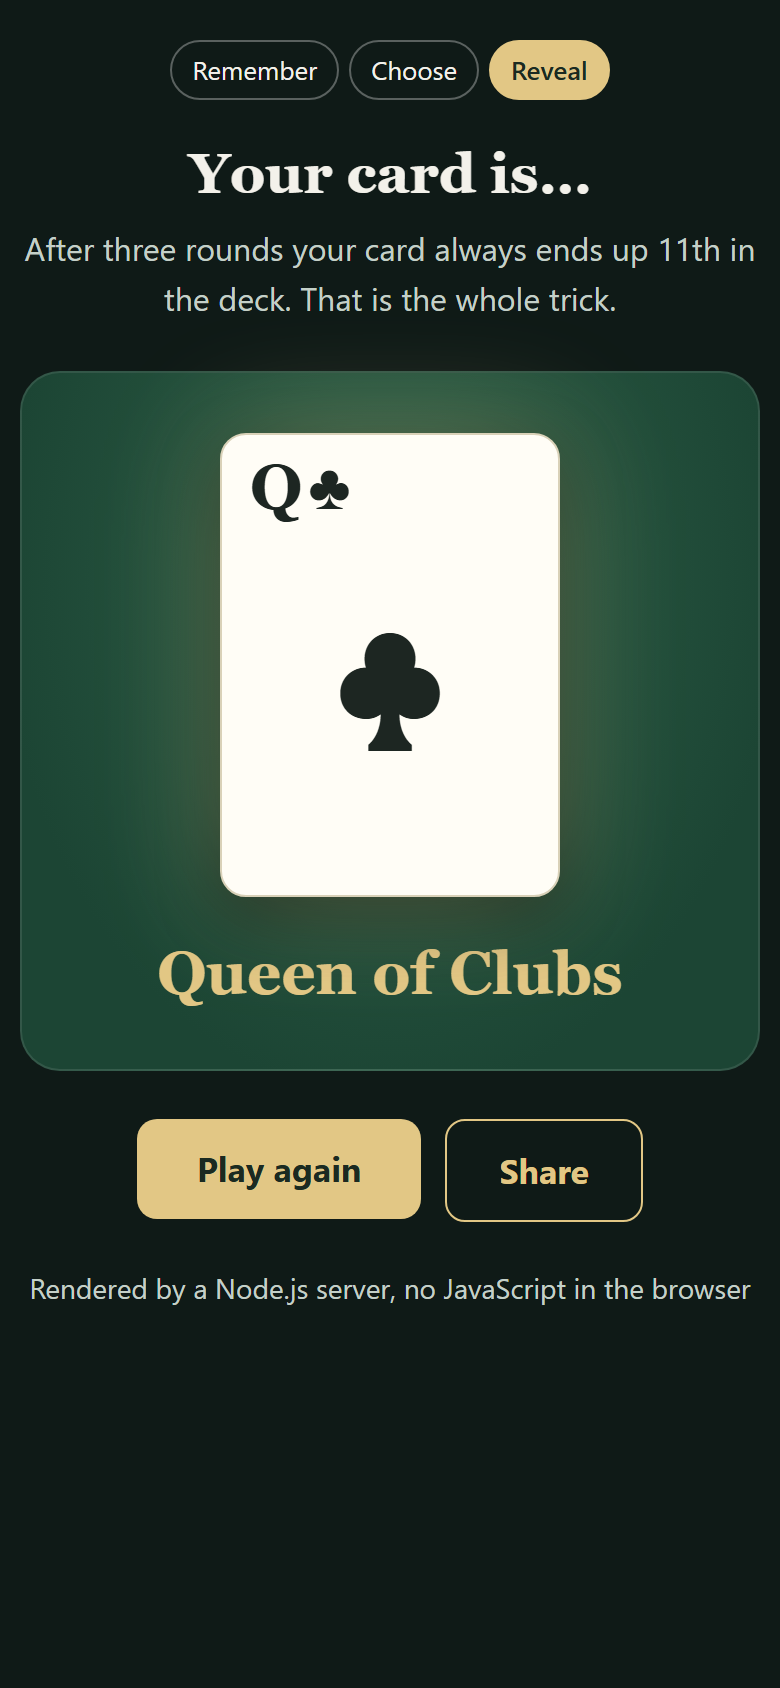
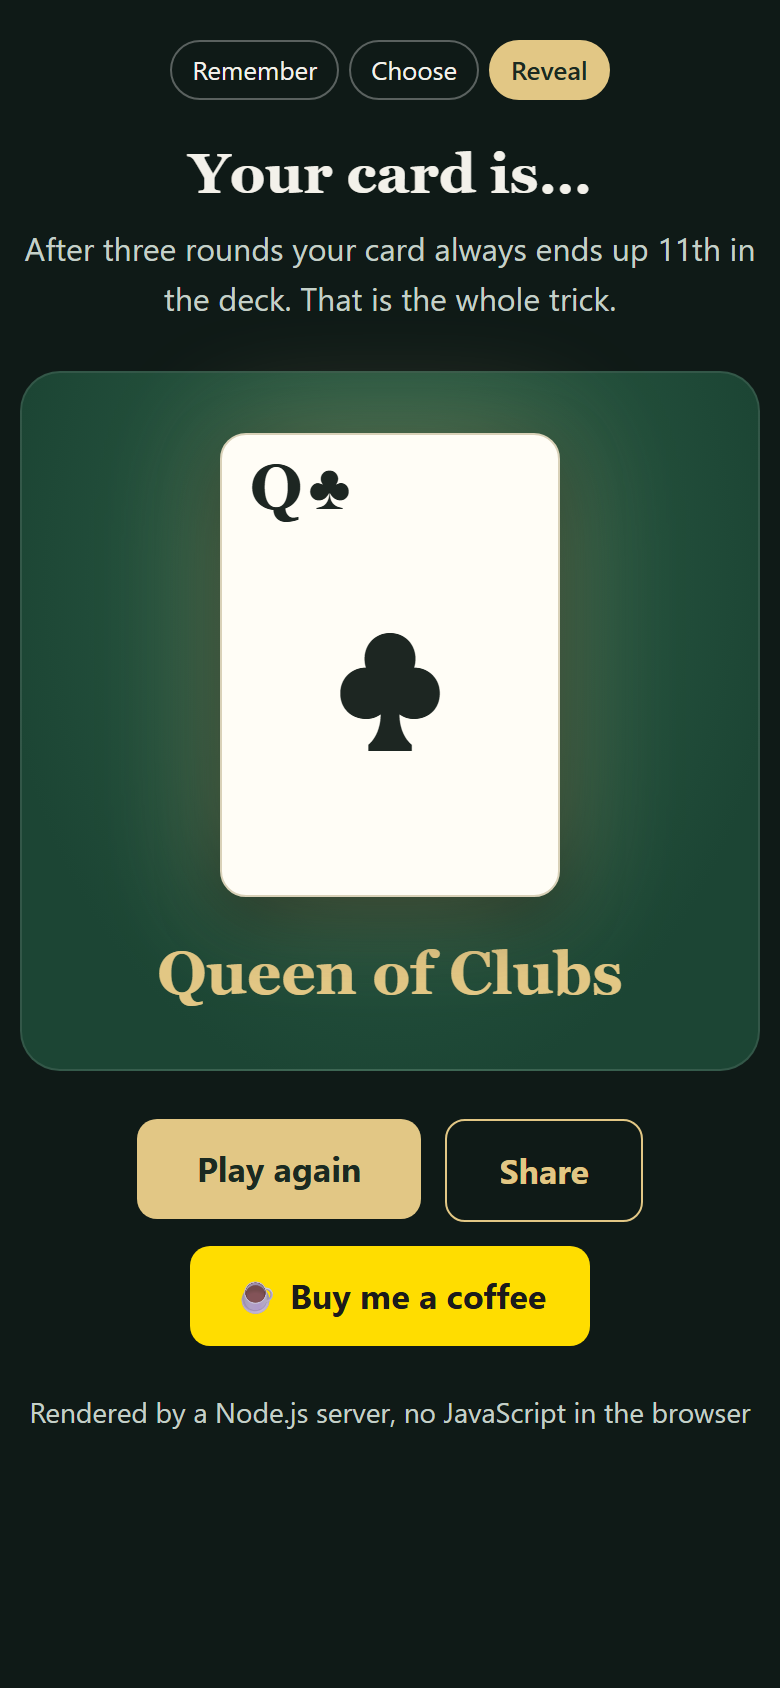
Add a Buy me a coffee button beside Play again in every version
The reveal screen of all six web versions now shows Play again, Share
and a Buy me a coffee button together. README and screenshots updated.

diff --git a/web/shared/hocuspocus.css b/web/shared/hocuspocus.css
@@ -8,7 +8,7 @@
  *     div.hp-table > div.hp-piles > section.hp-pile
  *       h2, ul.hp-cards > li.hp-card(.red), .hp-pick
  *     div.hp-reveal > .hp-card.hp-big, p.hp-name
- *     div.hp-actions > .hp-primary, details.hp-share (reveal screen only)
+ *     div.hp-actions > .hp-primary, details.hp-share, a.hp-coffee (last two on the reveal screen)
  *       summary.hp-secondary, div.hp-share-menu > a, .hp-copy | input
  *     p.hp-made
  */
@@ -249,6 +249,30 @@ body {
   align-items: flex-start;
   flex-wrap: wrap;
   gap: 12px;
+}
+
+/* Buy me a coffee, beside Play again and Share on the reveal screen. */
+
+.hp-coffee {
+  display: inline-flex;
+  align-items: center;
+  gap: 8px;
+  min-height: 50px;
+  padding: 13px 22px;
+  border-radius: 10px;
+  background: #ffdd00;
+  color: #1b1b1b;
+  font: 700 17px/1.4 var(--hp-font);
+  text-decoration: none;
+}
+
+.hp-coffee:hover {
+  background: #ffe74d;
+}
+
+.hp-coffee:focus-visible {
+  outline: 3px solid var(--hp-gold-hover);
+  outline-offset: 3px;
 }
 
 /* Share: phones open the native share sheet; elsewhere this menu opens. */

diff --git a/web/vanilla/app.js b/web/vanilla/app.js
@@ -126,7 +126,8 @@ function render() {
         <ul class="hp-cards">${cardHtml(deck[10], 0, ' hp-big')}</ul>
         <p class="hp-name">${deck[10].name}</p>
       </div>`;
-    action = `<button class="hp-primary" data-action="again">Play again</button>${shareHtml(deck[10])}`;
+    action = `<button class="hp-primary" data-action="again">Play again</button>${shareHtml(deck[10])}
+      <a class="hp-coffee" href="https://buymeacoffee.com/dascondor" target="_blank" rel="noopener">☕ Buy me a coffee</a>`;
   } else {
     if (phase === 'remember') {
       title = 'Think of a card';

diff --git a/web/node/server.js b/web/node/server.js
@@ -159,7 +159,8 @@ function revealPage(id) {
         <ul class="hp-cards">${cardHtml(card, 0, ' hp-big')}</ul>
         <p class="hp-name">${card.name}</p>
       </div>`,
-    action: `<a class="hp-primary" href="/">Play again</a>${shareHtml(card)}`,
+    action: `<a class="hp-primary" href="/">Play again</a>${shareHtml(card)}
+      <a class="hp-coffee" href="https://buymeacoffee.com/dascondor" target="_blank" rel="noopener">☕ Buy me a coffee</a>`,
   });
 }
 

diff --git a/web/angular/src/app/app.ts b/web/angular/src/app/app.ts
@@ -132,6 +132,7 @@ function shareLinks(text: string, url: string): [string, string][] {
               <button class="hp-copy" type="button" (click)="copyLink()">{{ copyLabel() }}</button>
             </div>
           </details>
+          <a class="hp-coffee" href="https://buymeacoffee.com/dascondor" target="_blank" rel="noopener">☕ Buy me a coffee</a>
         }
       </div>
       <p class="hp-made">Built with Angular</p>

diff --git a/web/vue/src/App.vue b/web/vue/src/App.vue
@@ -169,6 +169,7 @@ onBeforeUnmount(() => document.removeEventListener('keydown', onKey));
             <button class="hp-copy" type="button" @click="copyLink">{{ copyLabel }}</button>
           </div>
         </details>
+        <a class="hp-coffee" href="https://buymeacoffee.com/dascondor" target="_blank" rel="noopener">☕ Buy me a coffee</a>
       </template>
     </div>
     <p class="hp-made">Built with Vue</p>

diff --git a/web/react/src/App.jsx b/web/react/src/App.jsx
@@ -186,6 +186,7 @@ export default function App() {
           <>
             <button className="hp-primary" onClick={() => setGame(newGame())}>Play again</button>
             <Share card={deck[10]} />
+            <a className="hp-coffee" href="https://buymeacoffee.com/dascondor" target="_blank" rel="noopener">☕ Buy me a coffee</a>
           </>
         )}
       </div>

diff --git a/web/python/server.py b/web/python/server.py
@@ -169,7 +169,8 @@ def reveal_page(card_id):
         "After three rounds your card always ends up 11th in the deck. That is the whole trick.",
         f'<div class="hp-reveal"><ul class="hp-cards">{card_html(c, 0, " hp-big")}</ul>'
         f'<p class="hp-name">{c["name"]}</p></div>',
-        '<a class="hp-primary" href="/">Play again</a>' + share_html(c),
+        '<a class="hp-primary" href="/">Play again</a>' + share_html(c)
+        + '<a class="hp-coffee" href="https://buymeacoffee.com/dascondor" target="_blank" rel="noopener">☕ Buy me a coffee</a>',
     )
 
 

diff --git a/README.md b/README.md
@@ -46,6 +46,7 @@ Think of a card. Point to its pile three times. Watch it appear.
 - **15 coding languages:** the same trick as a terminal program in each, from Python and Go to Bash and PowerShell.
 - **Docker images for everything:** run any version with one `docker run` command, or build them all with `docker compose up`.
 - **Easy to share:** a Share button on the page and on every "Your card is…" screen. Phones open the native share sheet; computers get WhatsApp, X, Facebook, Reddit, email and Copy link. Shared links show a preview card.
+- **Buy me a coffee:** a ☕ button beside **Play again** after every trick, and at the bottom of the website.
 - **Phone friendly:** large text, big tap targets, and layouts tested at phone size.
 - **Tested on every push:** each version plays thousands of games against itself to prove the trick never misses.
 
@@ -56,7 +57,7 @@ Think of a card. Point to its pile three times. Watch it appear.
 <table align="center">
   <tr>
     <td align="center"><img src="media/phone-play.png" alt="Choosing a web version on a phone" width="250"><br><sub>Pick a version</sub></td>
-    <td align="center"><img src="media/phone-reveal.png" alt="The reveal screen with Play again and Share buttons" width="250"><br><sub>The reveal, with Share</sub></td>
+    <td align="center"><img src="media/phone-reveal.png" alt="The reveal screen with Play again, Share and Buy me a coffee buttons" width="250"><br><sub>The reveal: play again, share, or buy me a coffee</sub></td>
     <td align="center"><img src="media/phone-run.png" alt="The Run it yourself section with Docker commands" width="250"><br><sub>Run it with Docker</sub></td>
   </tr>
 </table>
@@ -184,7 +185,7 @@ The Node.js and Python versions build every page on the server and keep the game
 ## 📱 Share it
 
 - **On the website:** the **Share** button under the title, or in the footer.
-- **After a trick:** every "Your card is…" screen has a **Share** button next to **Play again**, with the card it found in the message.
+- **After a trick:** every "Your card is…" screen has **Share** and **☕ Buy me a coffee** buttons next to **Play again**. The share message names the card it found.
 - **On a phone** it opens your phone's own share sheet. **On a computer** it offers WhatsApp, X, Facebook, Reddit, email and Copy link.
 - The two server versions share with plain links, so sharing works there with no JavaScript too.
 
@@ -271,7 +272,7 @@ This project grew out of [pyHocuspocus](https://github.com/DasCondor/pyHocuspocu
   <img src=".github/dascondor-logo.png" alt="DasCondor logo" width="64" height="64" align="left">
 </a>
 
-If this project made you smile or helped you learn something, you can **[buy me a coffee](https://buymeacoffee.com/dascondor)** to support future work. Contributions are voluntary, and sharing the trick with a friend helps too.
+If this project made you smile or helped you learn something, you can **[buy me a coffee](https://buymeacoffee.com/dascondor)** to support future work. The ☕ button also appears next to **Play again** after every trick and at the bottom of the website. Contributions are voluntary, and sharing the trick with a friend helps too.
 
 <br clear="left">
 
